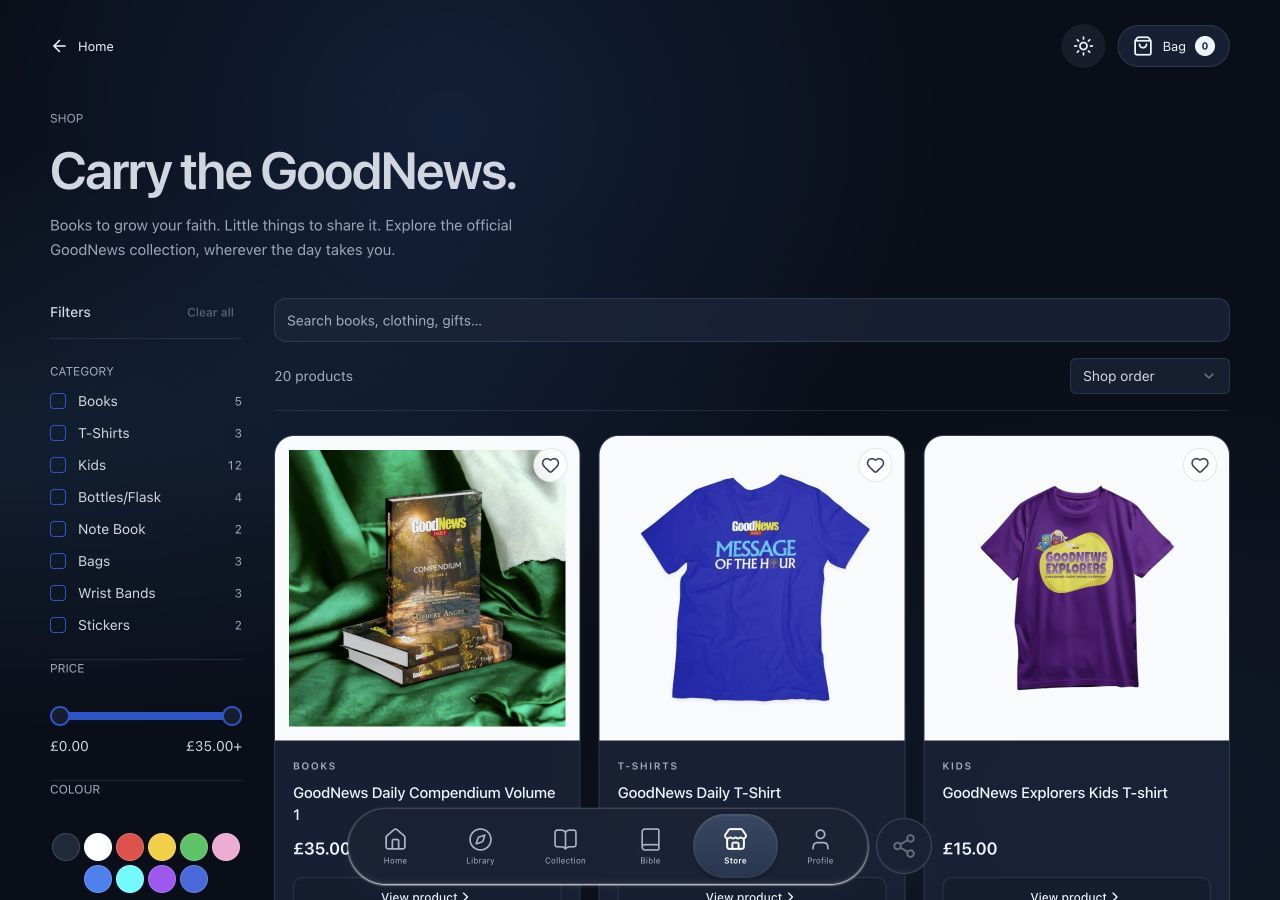
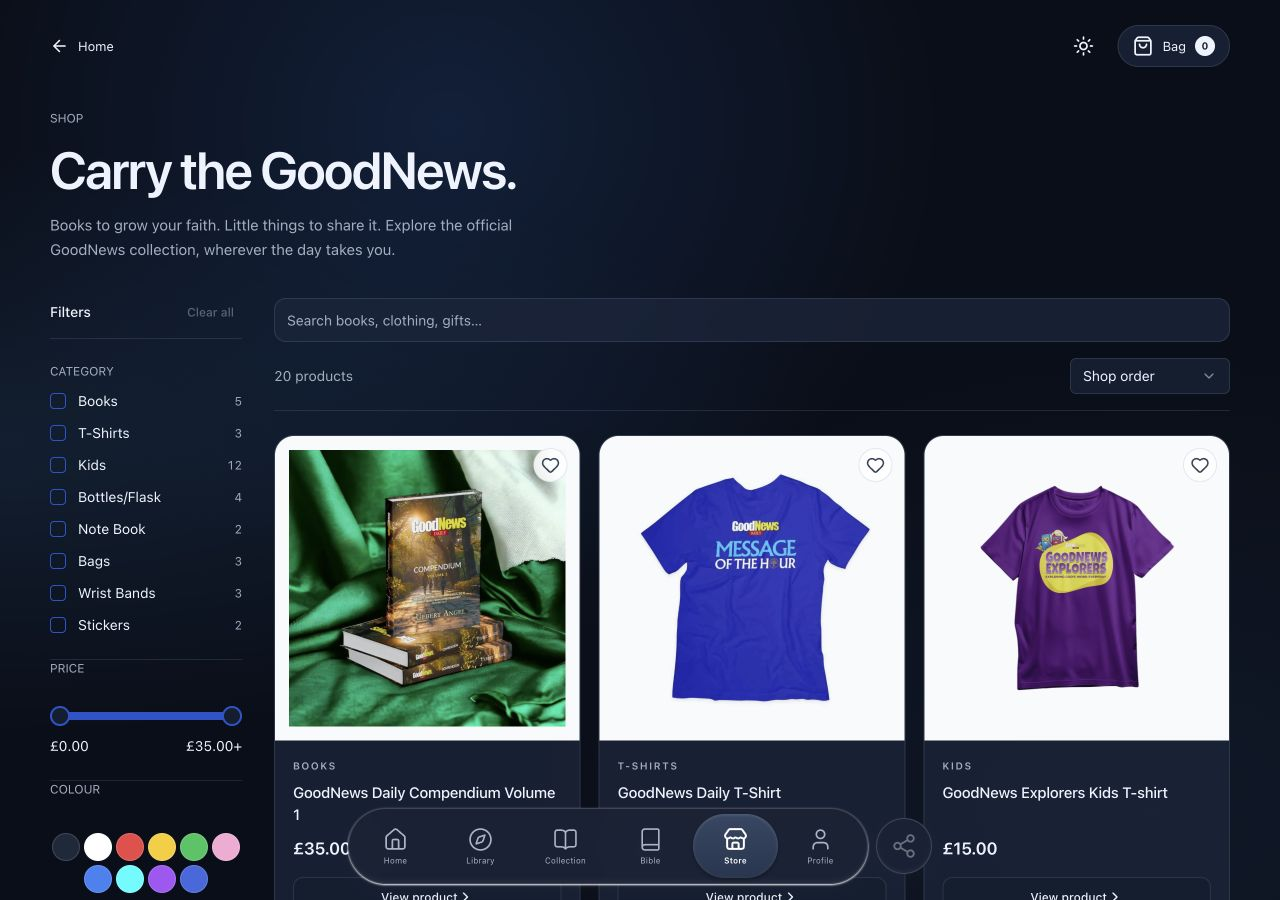
Record private repository and release verification

Changed region(s): [[0.0312, 0.1556, 0.4062, 0.2178]]

diff --git a/gates/store-product.md b/gates/store-product.md
@@ -25,8 +25,8 @@ Scope: Integrate the supplied product and catalog components with the local Good
 - [x] S7: Desktop and phone layouts are checked visually, with no horizontal page overflow; integration and catalog limitations are documented.
   EVIDENCE: 320px and 393px scrollWidth matches viewport for Store/product; 320px home also matches. Desktop and both themes inspected; README.md and evidence/store-verification.md record limits.
 
-- [ ] S8: The finished source is pushed to the private GNDforaman repository and its privacy/commit are verified.
-  EVIDENCE: pending
+- [x] S8: The finished source is pushed to the private GNDforaman repository and its privacy/commit are verified.
+  EVIDENCE: gh repo view confirms isPrivate=true, default branch codex/goodnews-local; source commit 0eb41b6 pushed to https://github.com/theangelorgapps-ship-it/GNDforaman.
 
 - [ ] S9: The tested build is deployed to Cloudflare gnd-test and the public deployment is verified.
   EVIDENCE: pending
